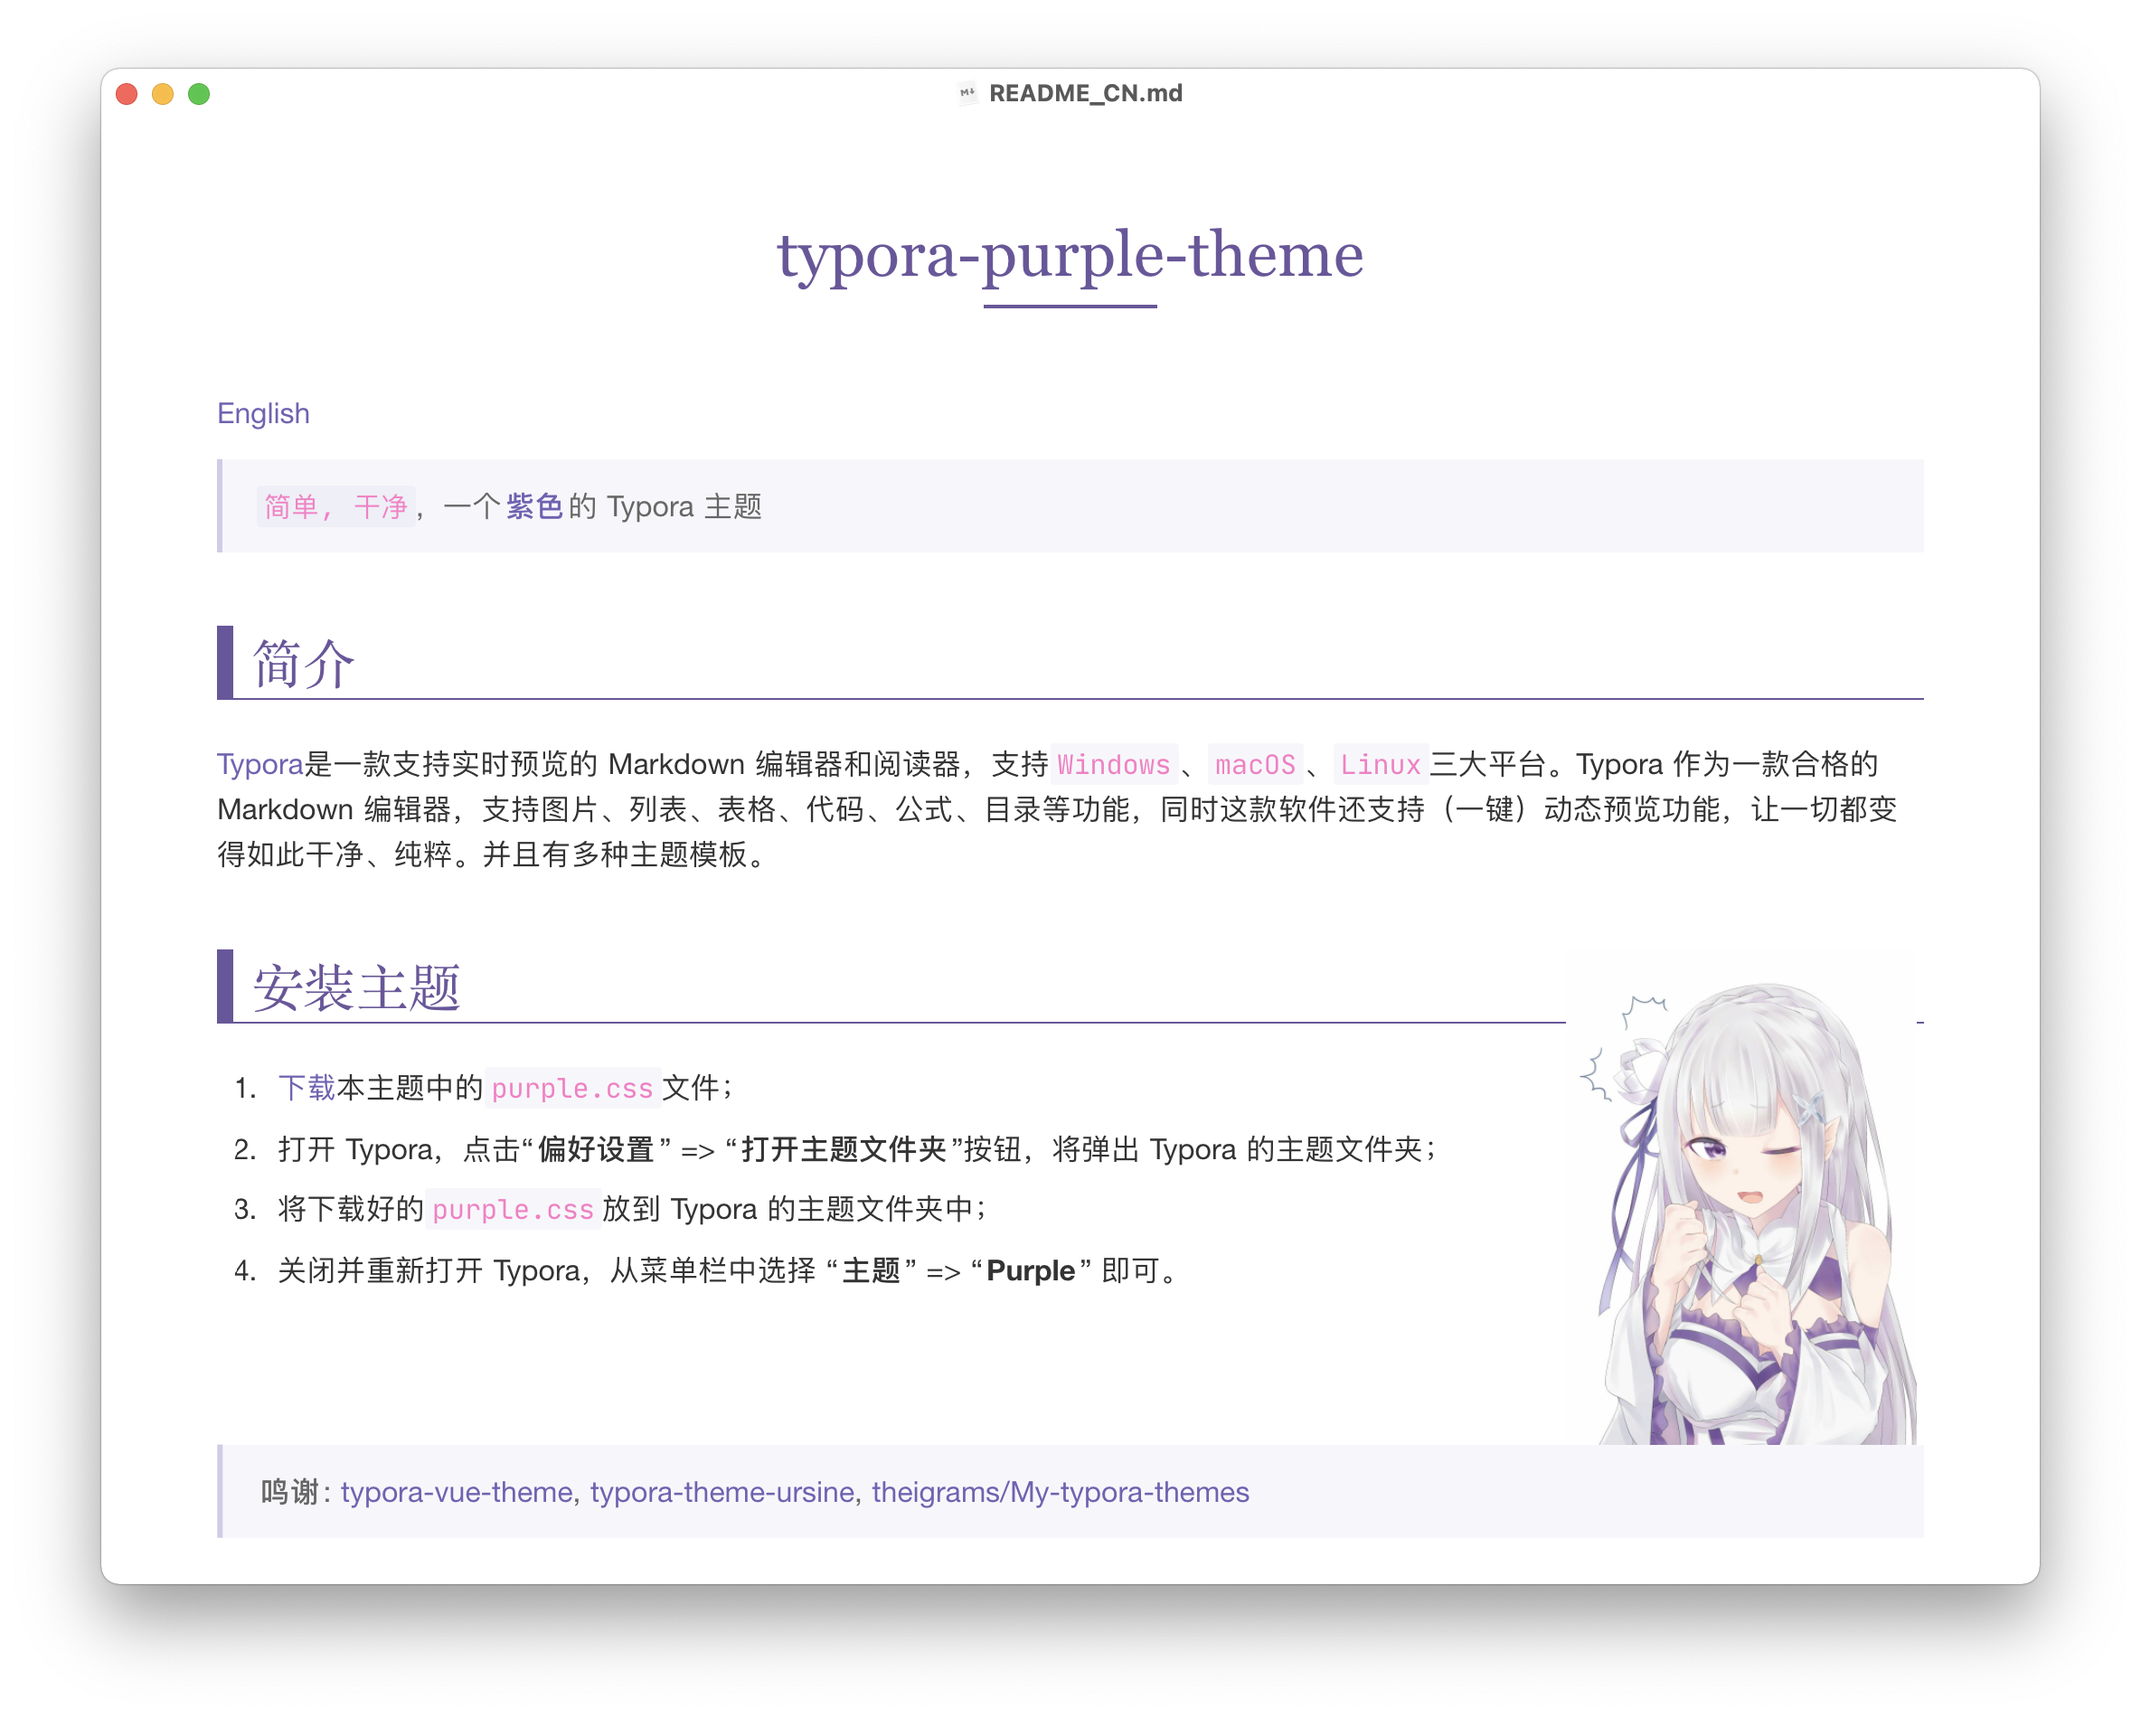
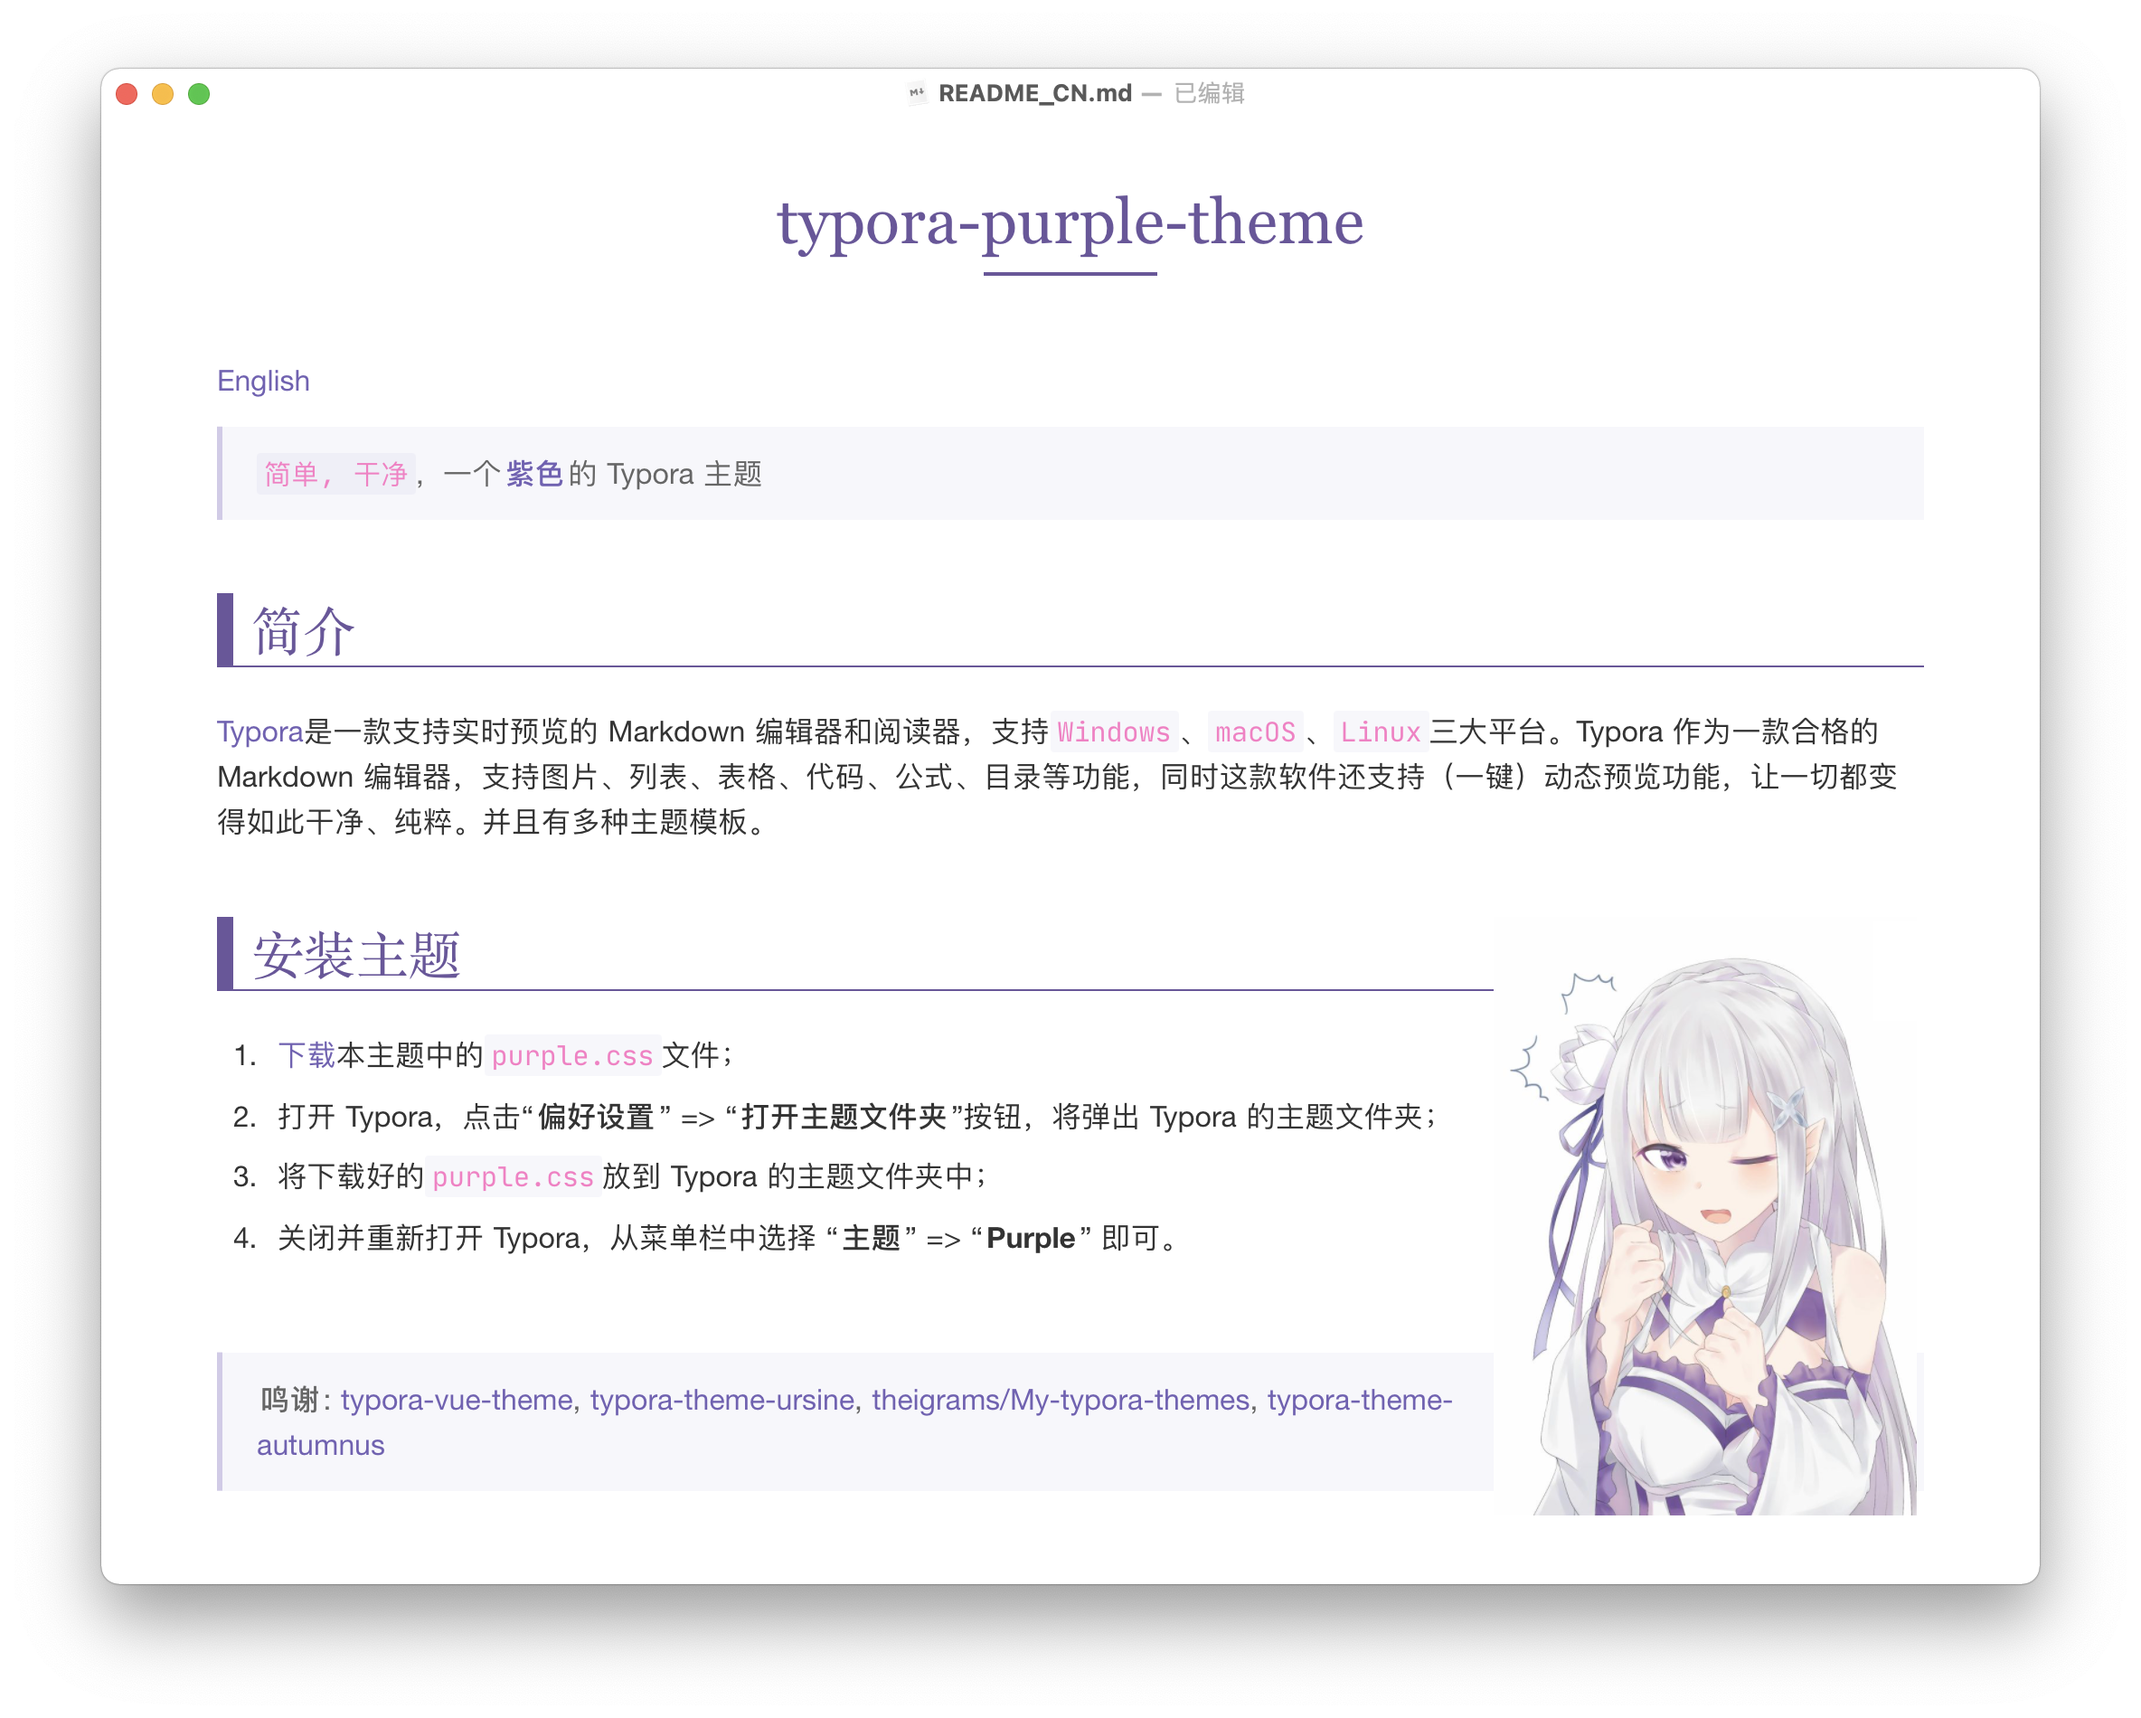
README.md

diff --git a/Tests/README.md b/Tests/README.md
@@ -10,14 +10,14 @@
 ## Introduction
 [Typora](https://www.typora.io/) is a markdown editor and reader that supports real-time preview. It supports `Windows`, `macOS`, `Linux` platforms. Typora is a qualified Markdown editor that supports images, lists, tables, codes, formulas, catalogs, etc. At the same time, typora also supports (one-click) dynamic preview function, so that everything becomes so clean and pure. And there are various theme templates.
 
-
-
 ## Install
 
-1. [Download](https://github.com/hliu202/typora-purple-theme) this theme from Github, then you can get the `purple.css`.<img src="assets/e.jpg" width="200" align=right hspace="5" vspace="5"/>
+1. [Download](https://github.com/hliu202/typora-purple-theme) this theme from Github, then you can get the `purple.css`.<img src="assets/m.jpeg" width="350" align=right hspace="5" vspace="5"/>
 2. Open typora. Click "**Open Theme Folder**" button from **Preference Panel** → **Apperance** section.
 3. Put `purple.css` into the opened folder, make sure your css files are directly under that directory.
 4. Close and reopen Typora and select **Theme** → **Purple** from the menu bar.
+
+
 
 > **Thanks**: [typora-vue-theme](https://github.com/blinkfox/typora-vue-theme), [typora-theme-ursine](https://github.com/aCluelessDanny/typora-theme-ursine), [theigrams/My-typora-themes](https://github.com/theigrams/My-typora-themes), [typora-theme-autumnus](https://github.com/Soanguy/typora-theme-autumnus)
 

diff --git a/Tests/README_CN.md b/Tests/README_CN.md
@@ -13,7 +13,7 @@
 
 ## 安装主题
 
-1. [下载](https://github.com/hliu202/typora-purple-theme)本主题中的`purple.css`文件；<img src="assets/e.jpg" width="200" align=right hspace="5" vspace="5"/>
+1. [下载](https://github.com/hliu202/typora-purple-theme)本主题中的`purple.css`文件；<img src="assets/e.jpg" width="240" align=right hspace="5" vspace="5"/>
 
 2. 打开 Typora，点击“**偏好设置**” => “**打开主题文件夹**”按钮，将弹出 Typora 的主题文件夹；
 
@@ -21,9 +21,8 @@
 
 4. 关闭并重新打开 Typora，从菜单栏中选择 “**主题**” => “**Purple**” 即可。
 
-   
 
 
 
-> **鸣谢**: [typora-vue-theme](https://github.com/blinkfox/typora-vue-theme), [typora-theme-ursine](https://github.com/aCluelessDanny/typora-theme-ursine), [theigrams/My-typora-themes](https://github.com/theigrams/My-typora-themes)
+> **鸣谢**: [typora-vue-theme](https://github.com/blinkfox/typora-vue-theme), [typora-theme-ursine](https://github.com/aCluelessDanny/typora-theme-ursine), [theigrams/My-typora-themes](https://github.com/theigrams/My-typora-themes), [typora-theme-autumnus](https://github.com/Soanguy/typora-theme-autumnus)
 

diff --git a/README.md b/README.md
@@ -1,10 +1,10 @@
 ## 主题介绍
 
-`purple.css`是紫色调为主的彩色版本：
+[purple.css](purple.css) 是紫色调：
 
 ![purple.css](./ScreenShots/1.png)
 
-`purple-plain.css`是黑白配色：
+[purple-plain.css](purple-plain.css) 是 ~~黑长直~~ 黑色调
 
 ![purple-plain.css](./ScreenShots/2.png)
 
